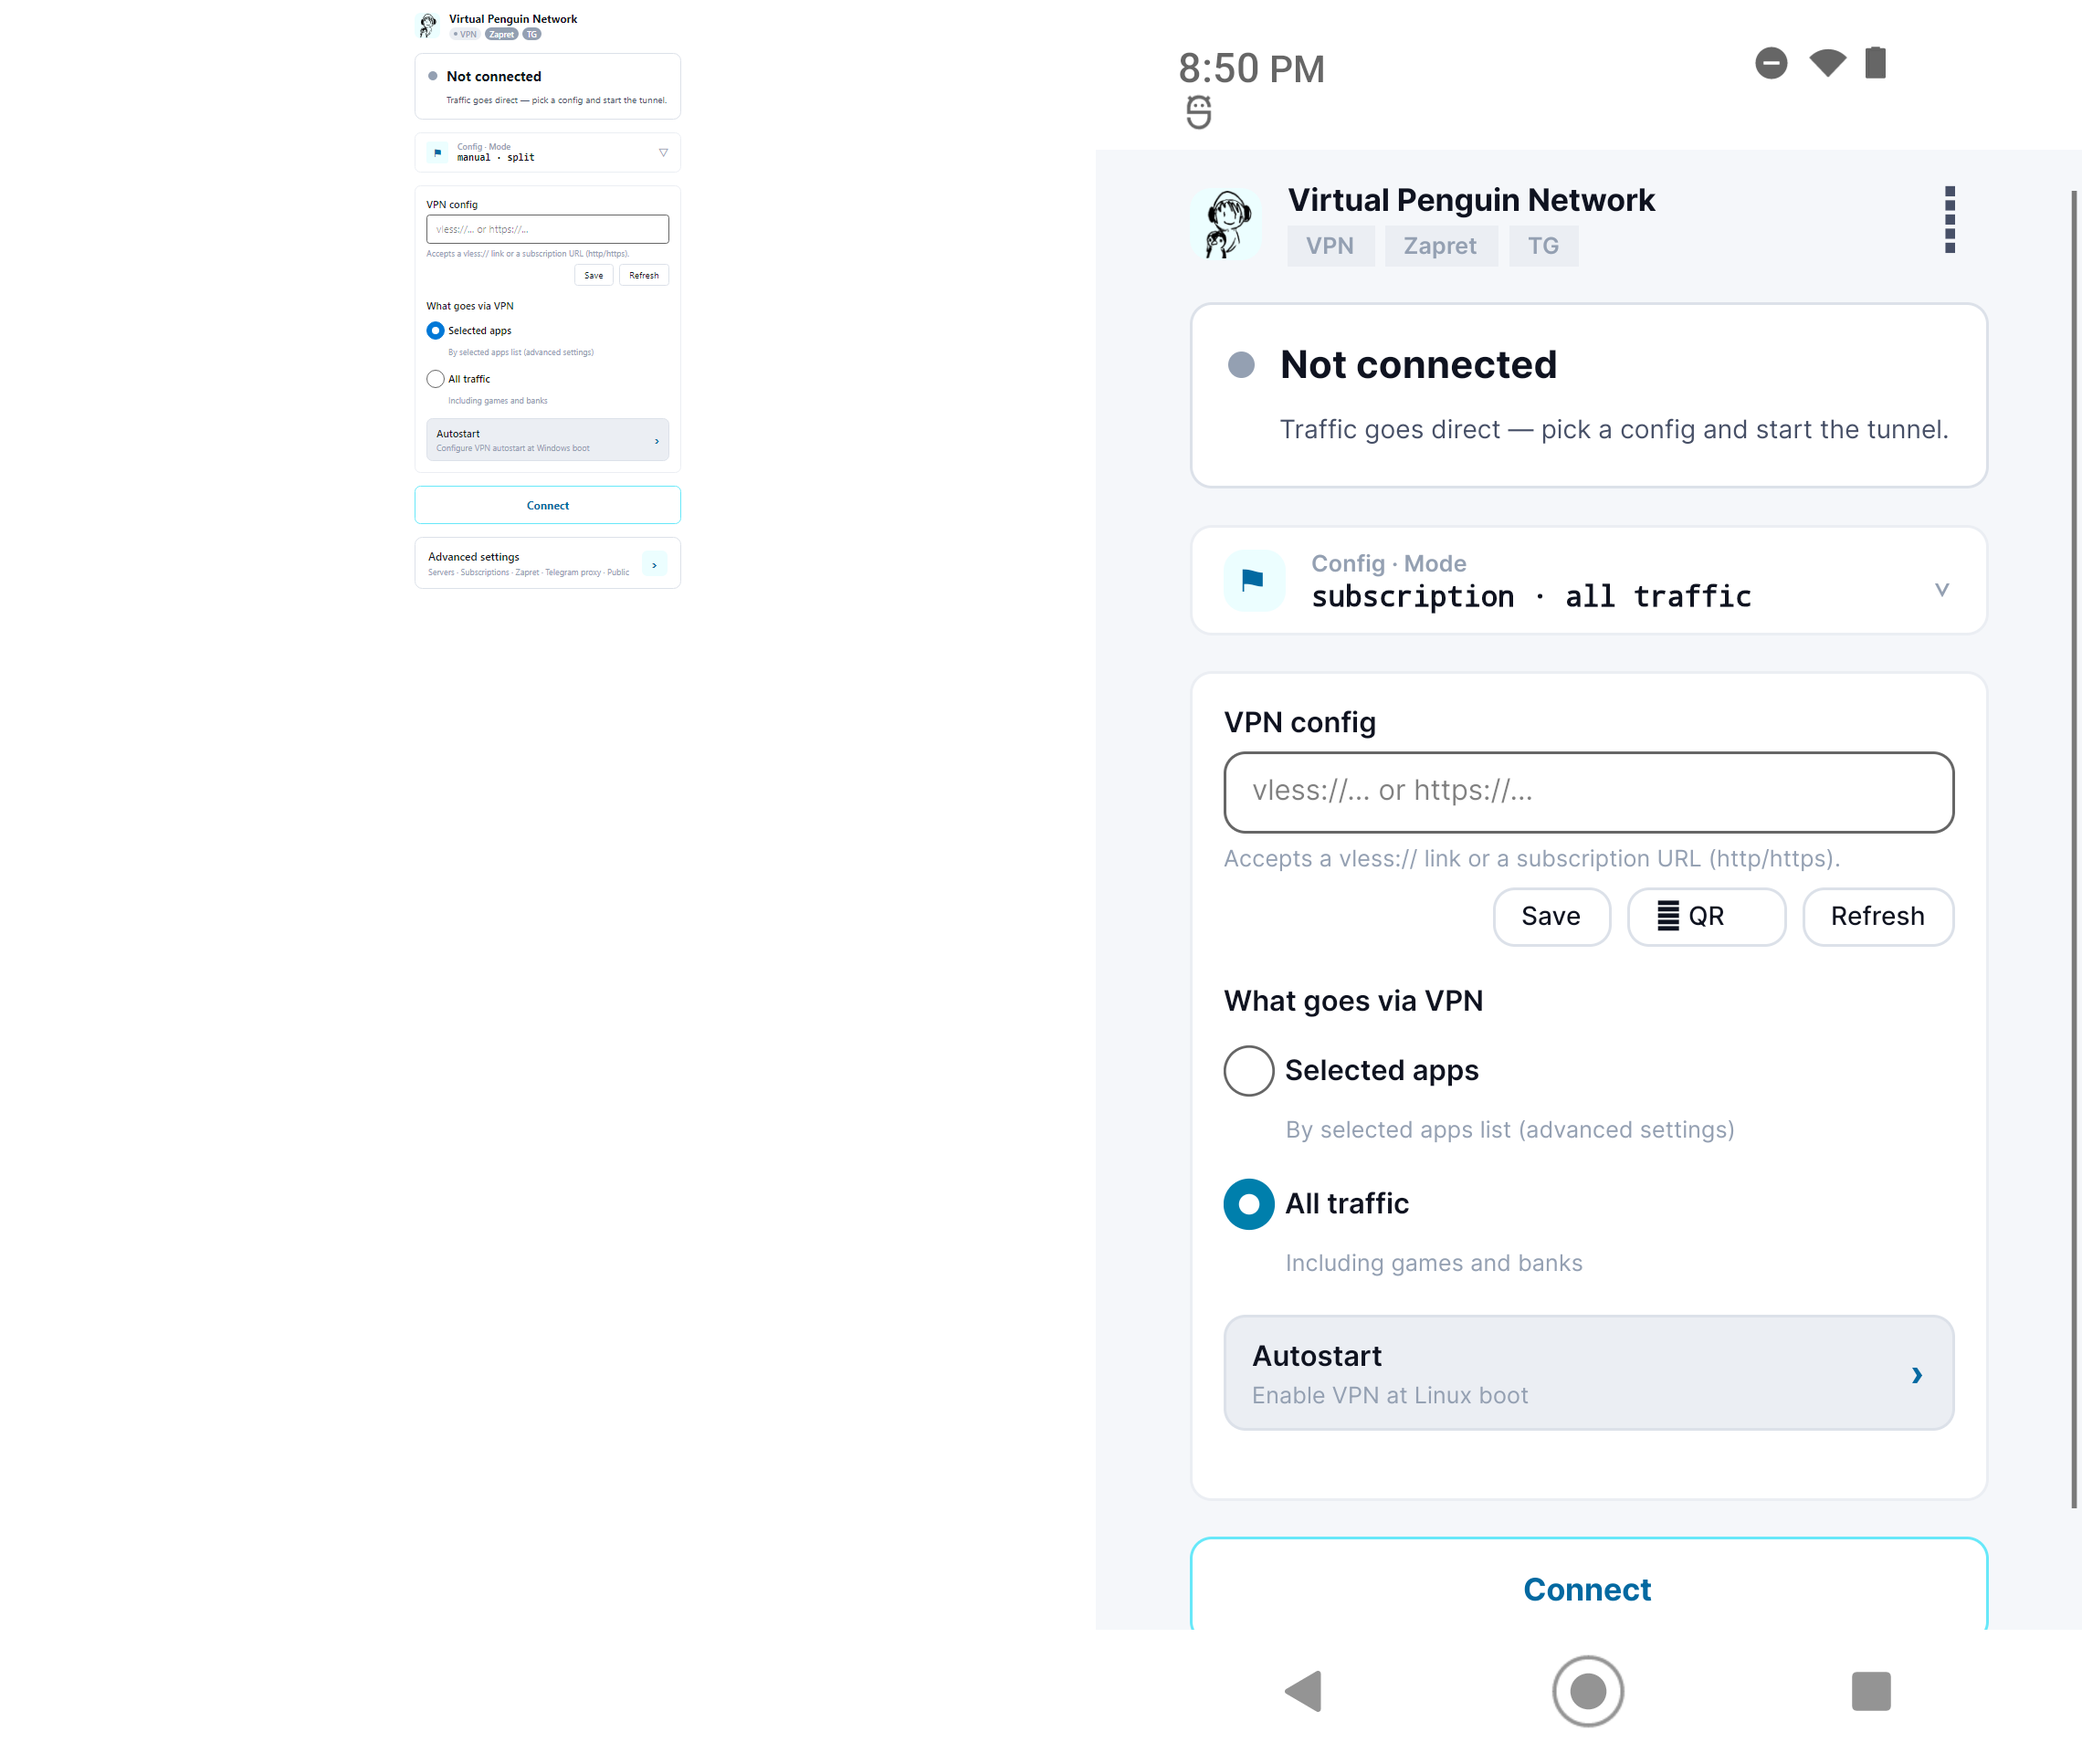
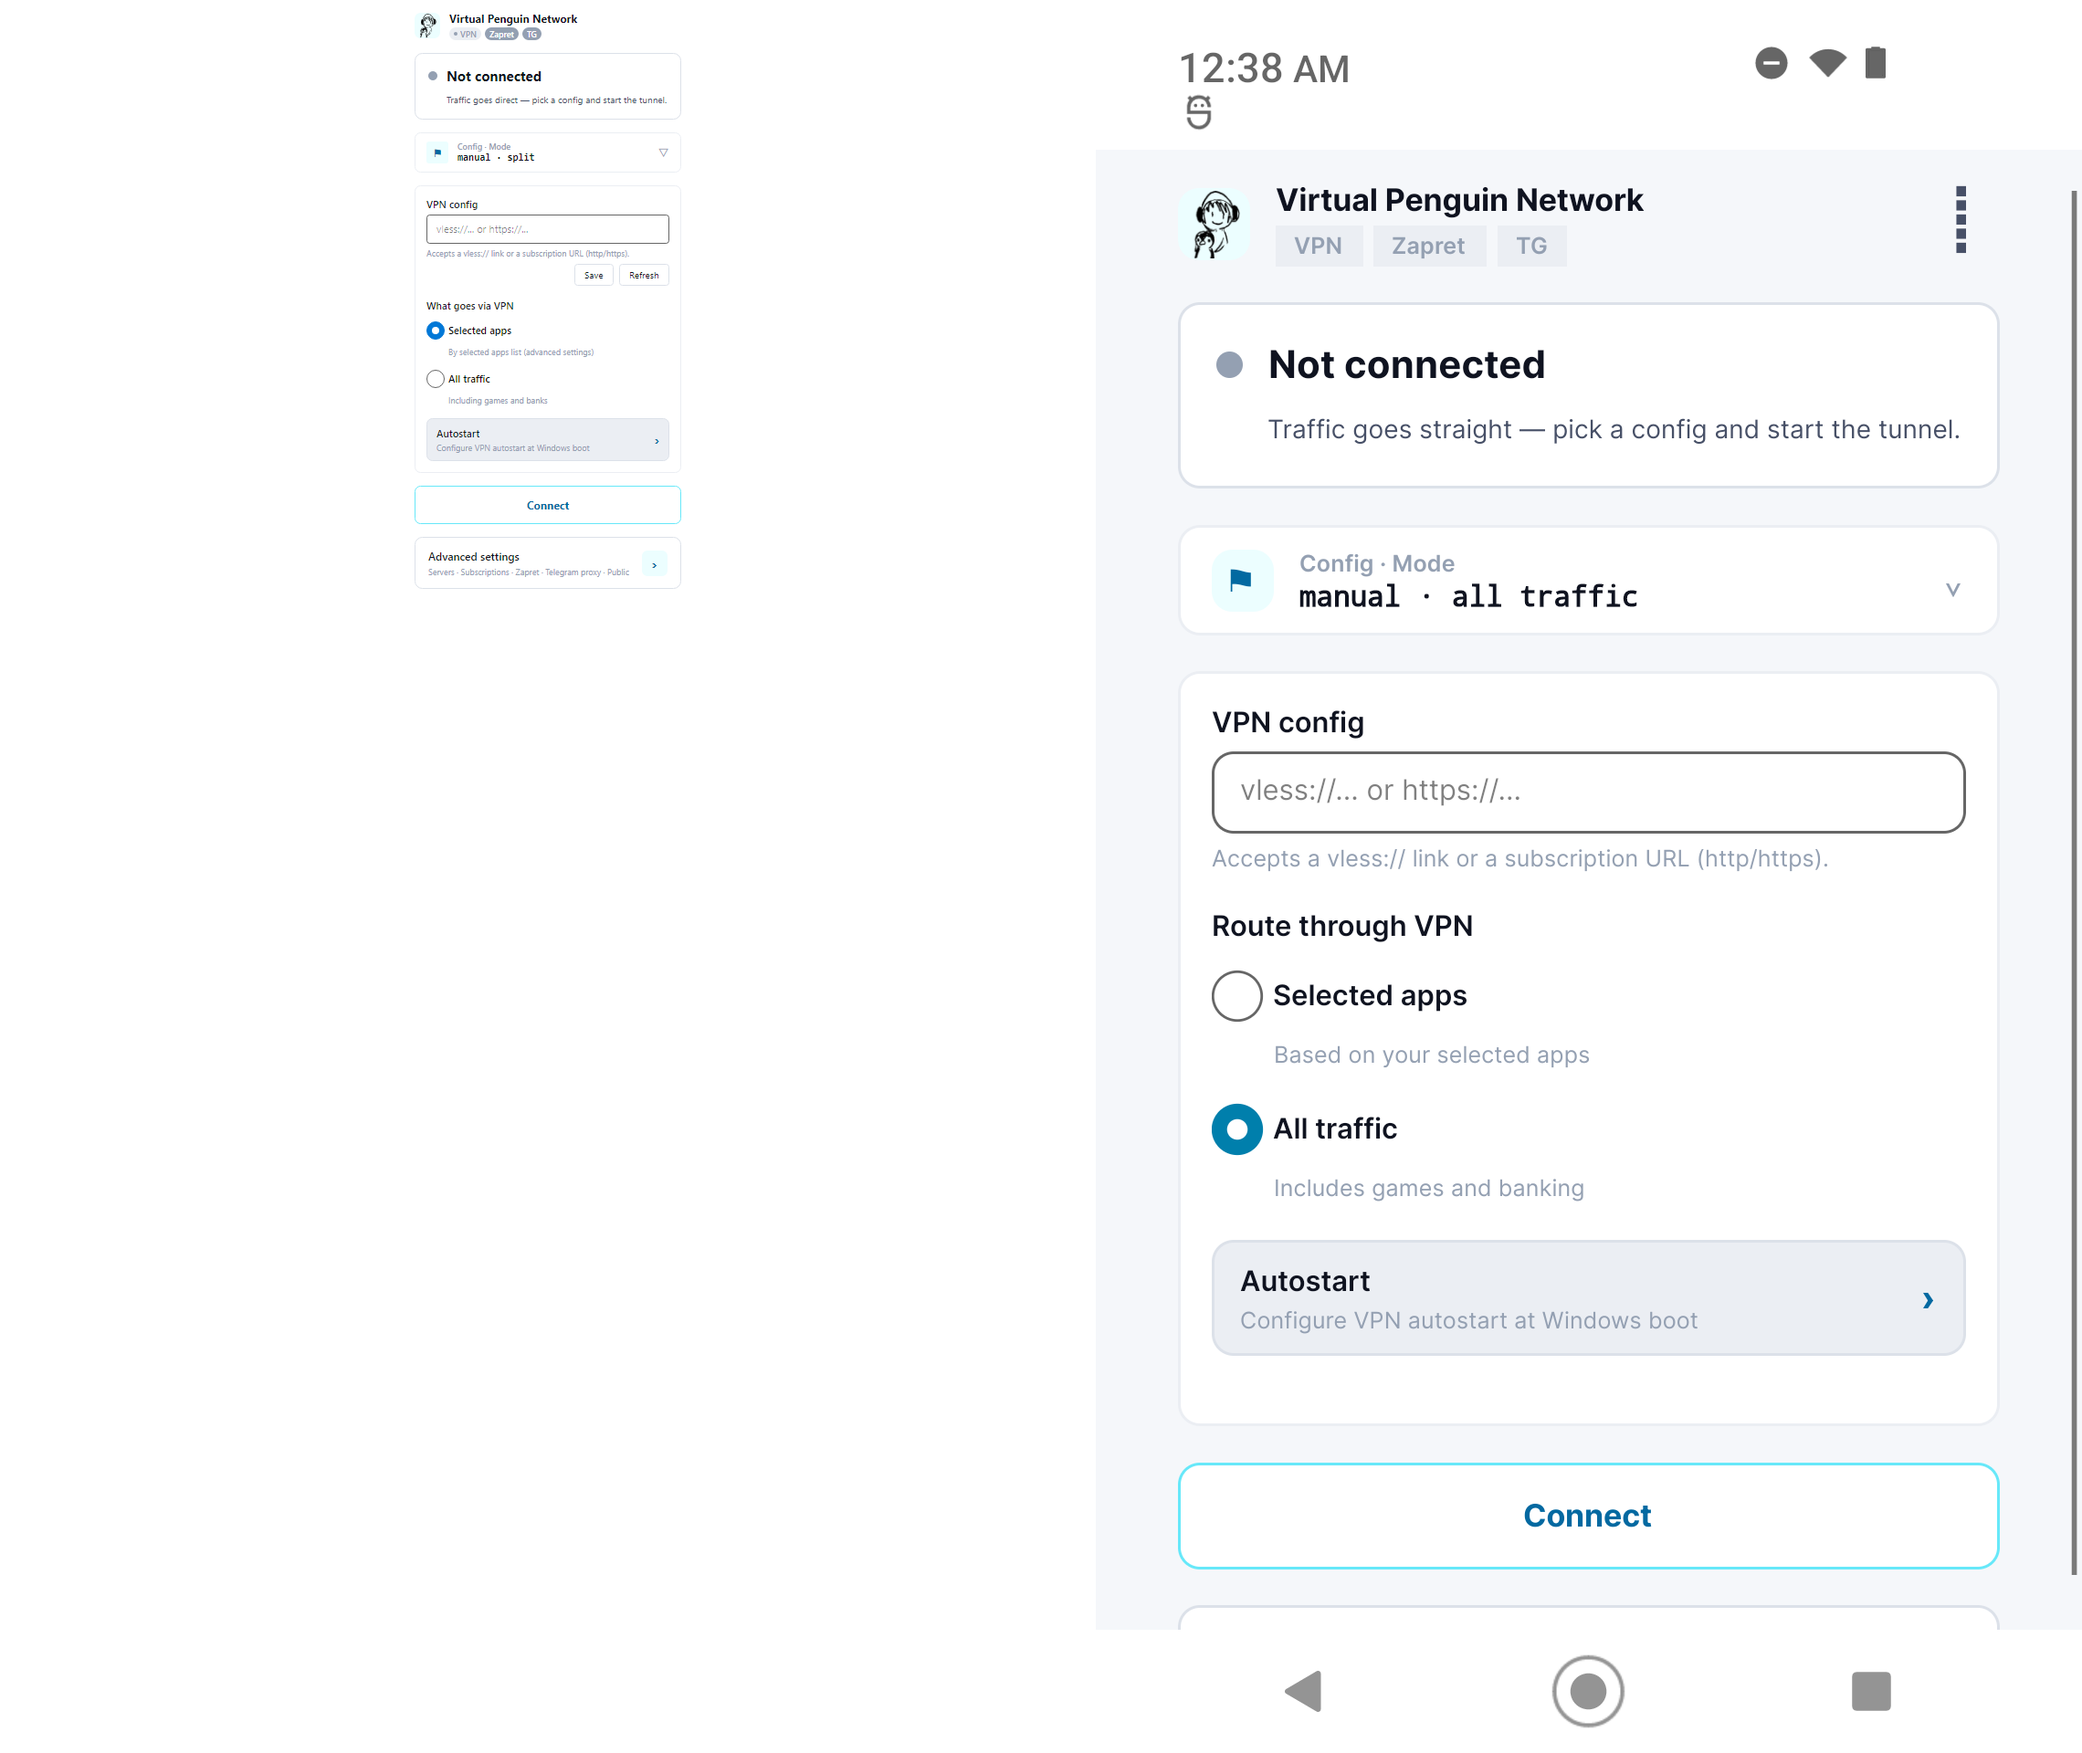
audit(parity): closure summary after 2026-05-10 desktop revert
After d9f7027 + bb82c4b + b1f9743 + e32e80c, parity audit closes with:
- Desktop = pristine v2.32.0 stable (no chip modifications)
- Android Simple = matches v2.32.0 desktop visual
- Android kebab = matches v2.32.0 slim 7-item structure
- Android Advanced shell = legitimate port preserved (tab strip equivalent
  of desktop MainWindow tabs)
- Tests: 597 pass / 0 fail / 3 skip (visual-diff)

Lesson logged: any chip touching desktop files needs explicit user approval.
Reference for 'desktop look' is commit 7d9707b (v2.32.0 stable), not main.

diff --git a/parity-audit/findings.md b/parity-audit/findings.md
@@ -1,6 +1,42 @@
 # VPNRouter — UI/UX parity audit findings
 
 **Date**: 2026-05-09 after v2.32.0 + AND-PROFILES merge.
+
+## 🔄 2026-05-10 FULL DESKTOP REVERT — corrected approach
+
+User feedback: "we shouldn't have touched desktop at all". All desktop changes
+made by today's chips (F-02/F-10/F-11/F-12/foundation) reverted to **v2.32.0
+stable visual** in commit `d9f7027`. Android slimmed in commit `bb82c4b` +
+`b1f9743` to match v2.32.0 desktop. Tests aligned in `e32e80c` (597 pass /
+0 fail / 3 skip). Final state:
+
+- **Desktop SimplePage** = pristine v2.32.0 (no Save/Refresh, no auto-detect,
+  Connect always-enabled, "Traffic goes straight", "Route through VPN",
+  manual·split default).
+- **Desktop kebab** = pristine v2.32.0 (View / Diagnostics(3) /
+  Troubleshooting(3) / About / Advanced ▶).
+- **Android Simple page** = matches v2.32.0 desktop (brand row + chips,
+  status, Config·Mode, VPN config form WITHOUT action row, routing radios,
+  autostart card "Configure VPN autostart at Windows boot", Connect,
+  Advanced settings).
+- **Android kebab** = matches v2.32.0 desktop slim 7-item structure +
+  Advanced button.
+- **Android Advanced shell** preserved as legitimate port (tab strip
+  Servers/Subscriptions/Apps/Network/DPI/Telegram/Public — Android
+  equivalent of desktop's MainWindow tab nav).
+- **Connected state** on Android: "Connected · MM:SS" + uptime + "Traffic
+  is routed through the VPN tunnel." + "Last check Ns ago" health monitor +
+  Disconnect button — verified live, matches v2.32.0 desktop Connected.
+
+Lesson encoded for future chips: any chip touching `VPNRouter.App/`,
+`VPNRouter.Core/Models/AppSettings.cs`, or `VPNRouter.Core/Services/
+SettingsLoader.cs` requires explicit user approval. Default reference for
+"desktop look" is **commit `7d9707b` (v2.32.0 stable)**, not main HEAD.
+
+---
+
+## Pre-revert findings (kept for context — most are now obsolete)
+
 **Re-test 1**: 2026-05-09 after F-01 + F-02 — static screenshot match only.
 **Re-test 2 (LIVE INTERACTIVE)**: 2026-05-09 after F-10 + F-11 + F-12 — verified press-by-press on real desktop fresh-build + Android phone:
 - F-10 ✅ canonical kebab — both kebabs now expose Find a server / Routing profiles / Copy log path / View crash log / Check IP leak / Run Health Check / Export+Import / Restart in Safe Mode / Reset (red). Desktop has residual "Advanced ▶" placeholder (cosmetic — items moved out, container still visible).
